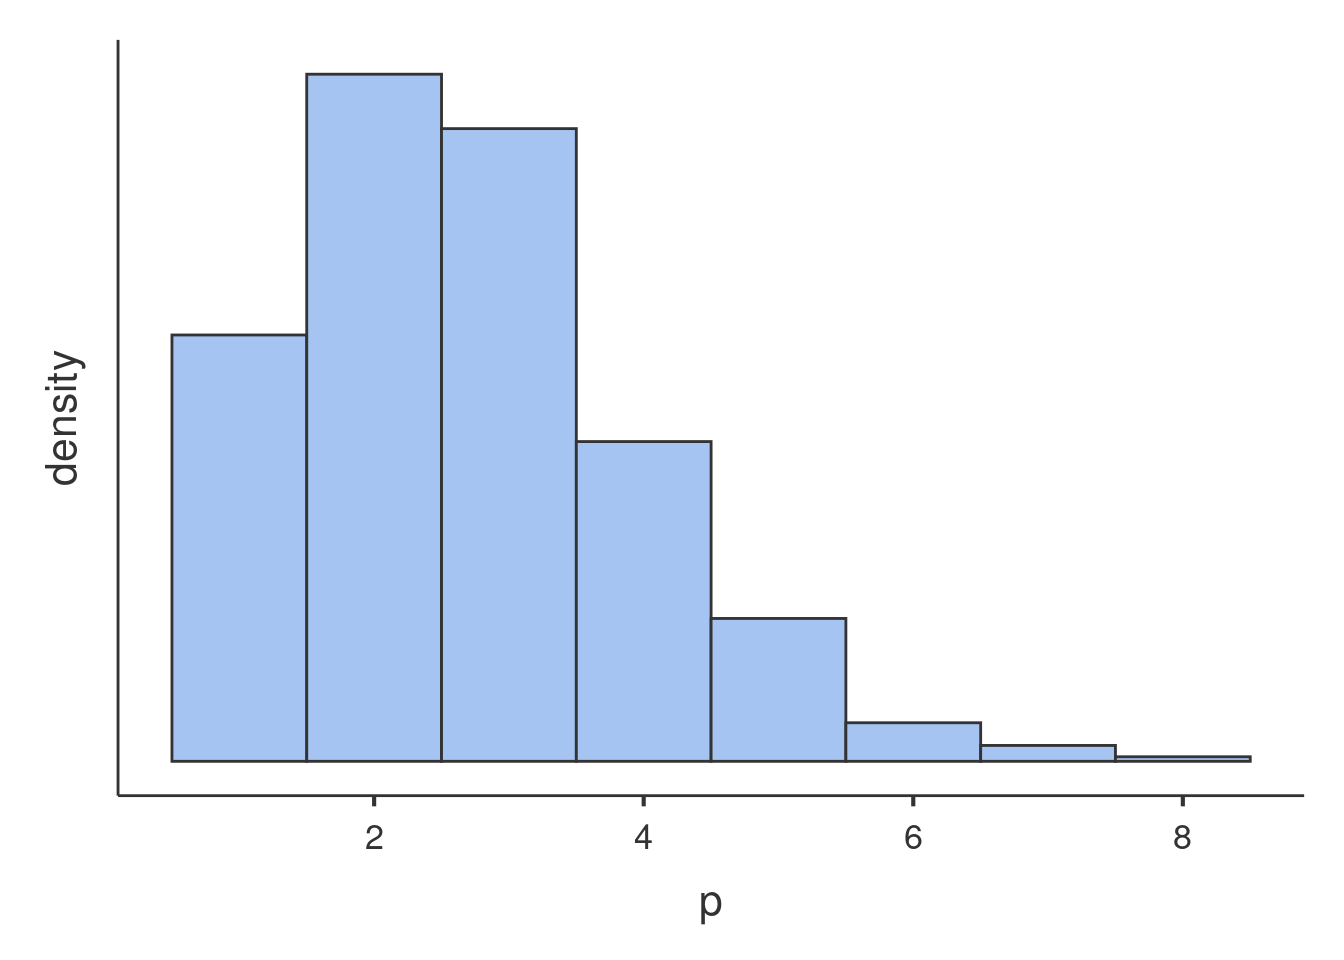
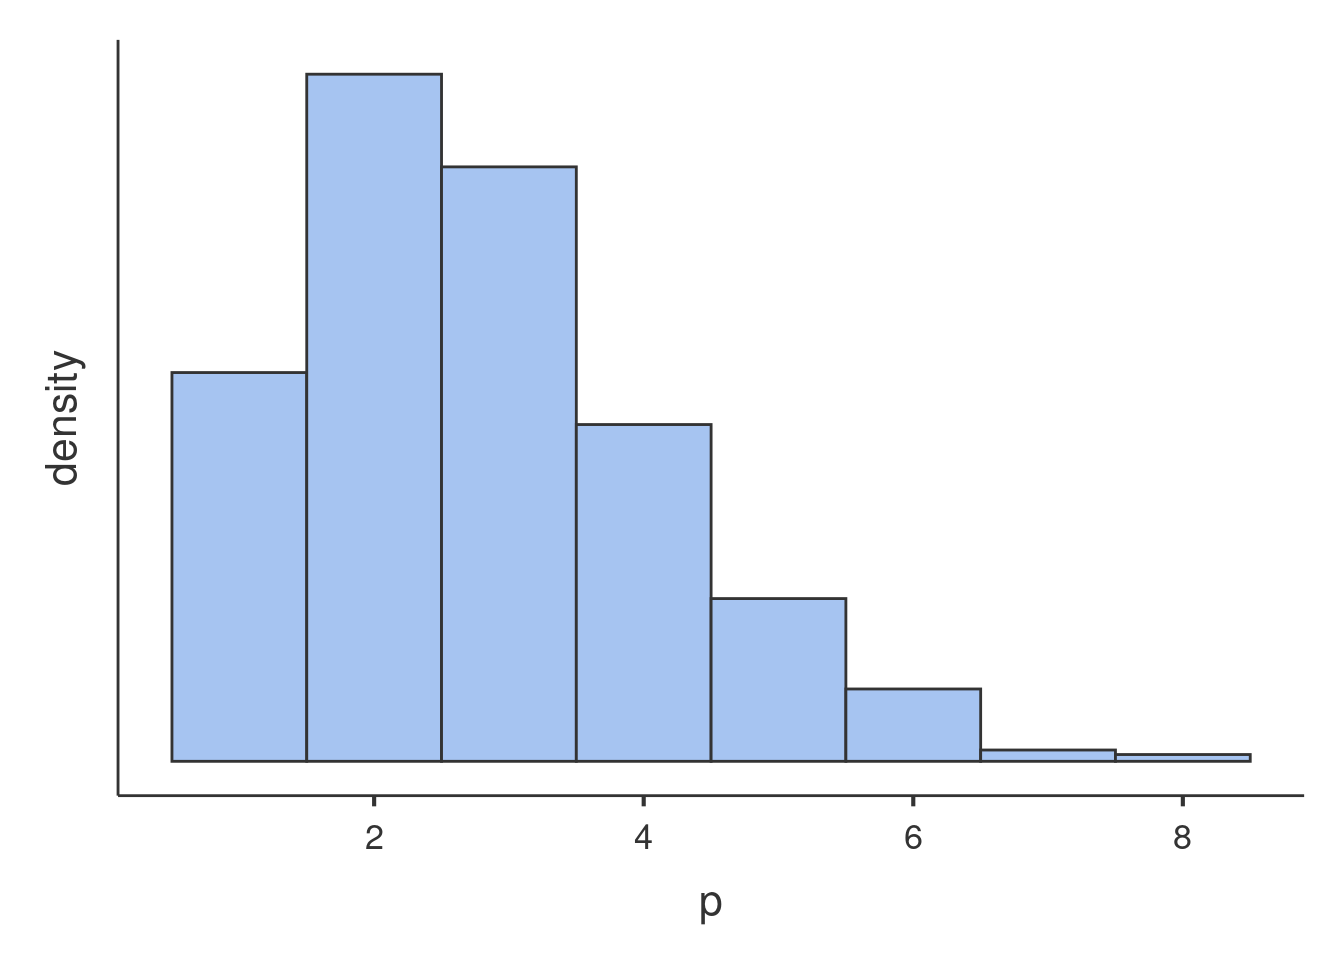
updates

diff --git a/gmixed_specs.html b/gmixed_specs.html
@@ -378,20 +378,20 @@ div.tocify {
 </div>
 <div id="deviance" class="section level2">
 <h2>Deviance</h2>
-<p>The implementation follows exactly the indication of R package <code>lme4</code> <span class="citation">(Douglas Bates <a href="#ref-lme4cran">2020</a>)</span>. In generalized mixed model, deviance can be defined in different ways. One dichotomy is the deviance. The absolute deviance of the model vs the deviance resulting from subtracting the deviance of a saturated model. These two may be called absolute vs relative variance. A crossing factor is whether the deviance is conditional to the random effect (all effects affect the deviance) or it is not conditional to them (only the fixed effects affect the deviance). GAMLj computes two cell of the potential 2x2 table of possible deviance definitions:</p>
+<p>The implementation follows exactly the indication of R package <code>lme4</code> <span class="citation">(Douglas Bates <a href="#ref-lme4cran">2020</a>)</span>. In generalized mixed models, deviance can be defined in different ways. One dichotomy is the reference to a saturated model. The <em>absolute deviance</em> of the model is simply the model deviance, the <em>relative deviance</em> is the deviance resulting from subtracting the deviance of a saturated model from the model deviance. A crossing factor is whether the deviance is conditional to the random effects (all effects affect the deviance) or it is not conditional to them (only the fixed effects affect the deviance). GAMLj computes two cells of the potential 2x2 table of possible deviance definitions:</p>
 <ul>
 <li><code>-2*LogLikel.</code>, <code>Unconditioal absolute deviance</code>: Computed by <code>-2*logLik(model)</code></li>
 <li><code>Deviance</code>, <code>Conditional relative deviance</code> : Computed by <code>stats::deviance(model)</code></li>
 </ul>
-<p>Furthermore, GAMLj outputs also the logLikelyhood (<code>logLik</code>), which is simply the absolute likelihood computed as <code>stats::logLik(model)</code>.</p>
+<p>Furthermore, GAMLj outputs also the logLikelihood (<code>logLik</code>), which is simply the absolute log likelihood computed as <code>stats::logLik(model)</code>.</p>
 </div>
 <div id="aic" class="section level2">
 <h2>AIC</h2>
-<p>Aikake Information Criterion: it can be used for model comparisons. A model has a better fit than another when its AIC is smaller. It is implemented by simply estracting it from the R <code>glm</code> estimated model: <code>stats::extractAIC(model)</code>. Details in <span class="citation">(Bates et al. <a href="#ref-lme4">2015</a>; Douglas Bates <a href="#ref-lme4cran">2020</a>)</span>. The AIC is computed based on the Uncoditional absolute deviance.</p>
+<p>Aikake Information Criterion: it can be used for model comparison. A model has a better fit than another when its AIC is smaller than the other’s. It is implemented by simply estracting it from the R <code>glmer</code> estimated model: <code>stats::extractAIC(model)</code>. Details in <span class="citation">(Bates et al. <a href="#ref-lme4">2015</a>; Douglas Bates <a href="#ref-lme4cran">2020</a>)</span>. The AIC is computed based on the uncoditional absolute deviance.</p>
 </div>
 <div id="bic" class="section level2">
 <h2>BIC</h2>
-<p>Bayesian Information Criterion: it can be used for model comparisons. A model has a better fit than another when its BIC is smaller. It is implemented by simply estracting it from the R <code>glm</code> estimated model: <code>stats::BIC(model)</code>. Details in <span class="citation">(Bates et al. <a href="#ref-lme4">2015</a>; Douglas Bates <a href="#ref-lme4cran">2020</a>)</span>. The BIC is computed based on the Uncoditional absolute deviance.</p>
+<p>Bayesian Information Criterion: it can be used for model comparisons. A model has a better fit than another when its BIC is smaller. It is implemented by simply estracting it from the R <code>glm</code> estimated model: <code>stats::BIC(model)</code>. Details in <span class="citation">(Bates et al. <a href="#ref-lme4">2015</a>; Douglas Bates <a href="#ref-lme4cran">2020</a>)</span>. The BIC is computed based on the uncoditional absolute deviance.</p>
 </div>
 <div id="residual-df" class="section level2">
 <h2>Residual DF</h2>

diff --git a/glmmixed_example2.html b/glmmixed_example2.html
@@ -389,7 +389,7 @@ div.tocify {
 <p><img src="glmmixed_example2_files/figure-html/unnamed-chunk-2-1.png" width="672" /></p>
 <p>Glancing at the histogram makes it clear that the distribution is not normal, but it roughly resembles the Poisson distribution. Here is an example of Poisson distribution with equivalent mean.</p>
 <p><img src="glmmixed_example2_files/figure-html/unnamed-chunk-3-1.png" width="672" /></p>
-<p>We can see that the shape of our distribution is not qualitatively very different as compared with a theoretical Poisson distribution, so a Generalized Linear Model with Poisson distribition may work. However, we can check wheather our distribution is in line with the features of the Poisson dist by checking its mean and variance. The Poisson distribution has variance equal to the mean, in fact the simulated distribution in the histogram has <span class="math inline">\(\bar{x}=1.677\)</span> and <span class="math inline">\(s^2=1.66\)</span>. The <code>art</code> variable distribution has <span class="math inline">\(\bar{x}=1.693\)</span> and <span class="math inline">\(s^2=3.71\)</span>, with a ratio variance/mean of 2.191, which does not really qualify for Poisson dist. This looks like a case of <strong>overdispersion</strong>, <a href="http://bbolker.github.io/mixedmodels-misc/glmmFAQ.html#overdispersion">cf. here for details</a>. We will than consider a Negative Binomial model to account for possible overdispersion.</p>
+<p>We can see that the shape of our distribution is not qualitatively very different as compared with a theoretical Poisson distribution, so a Generalized Linear Model with Poisson distribition may work. However, we can check wheather our distribution is in line with the features of the Poisson dist by checking its mean and variance. The Poisson distribution has variance equal to the mean, in fact the simulated distribution in the histogram has <span class="math inline">\(\bar{x}=1.776\)</span> and <span class="math inline">\(s^2=1.824\)</span>. The <code>art</code> variable distribution has <span class="math inline">\(\bar{x}=1.693\)</span> and <span class="math inline">\(s^2=3.71\)</span>, with a ratio variance/mean of 2.191, which does not really qualify for Poisson dist. This looks like a case of <strong>overdispersion</strong>, <a href="http://bbolker.github.io/mixedmodels-misc/glmmFAQ.html#overdispersion">cf. here for details</a>. We will than consider a Negative Binomial model to account for possible overdispersion.</p>
 <p>An example of Negative Binomial distribution with equivalent mean and variance is here.</p>
 <p><img src="glmmixed_example2_files/figure-html/unnamed-chunk-4-1.png" width="672" /></p>
 <p>The second issue one needs to deal with is the structure of the data. We have seen that the students are not a random sample of students drawn independently one each other, but they are grouped by the program they are enrolled in. There are 83 programs, in each program there are on average 11 students. Because students in the same program may be more similar one each other than across programs, <code>programs</code> may cluster the scores of the dependent variable and create dependency in the data. To take dependency into the account, we will use a random intercepts model estimated with a Generalized Mixed Model.</p>

diff --git a/gzlmmixed.html b/gzlmmixed.html
@@ -519,9 +519,6 @@ div.tocify {
 <h1>Details</h1>
 <p>Some more information about the module specs can be found here</p>
 <ul>
-<li>
-<a href="posthoc_specs.html">Post-hocs Details</a>
-</li>
 </ul>
 </div>
 <div id="comparison-with-other-software" class="section level1">
